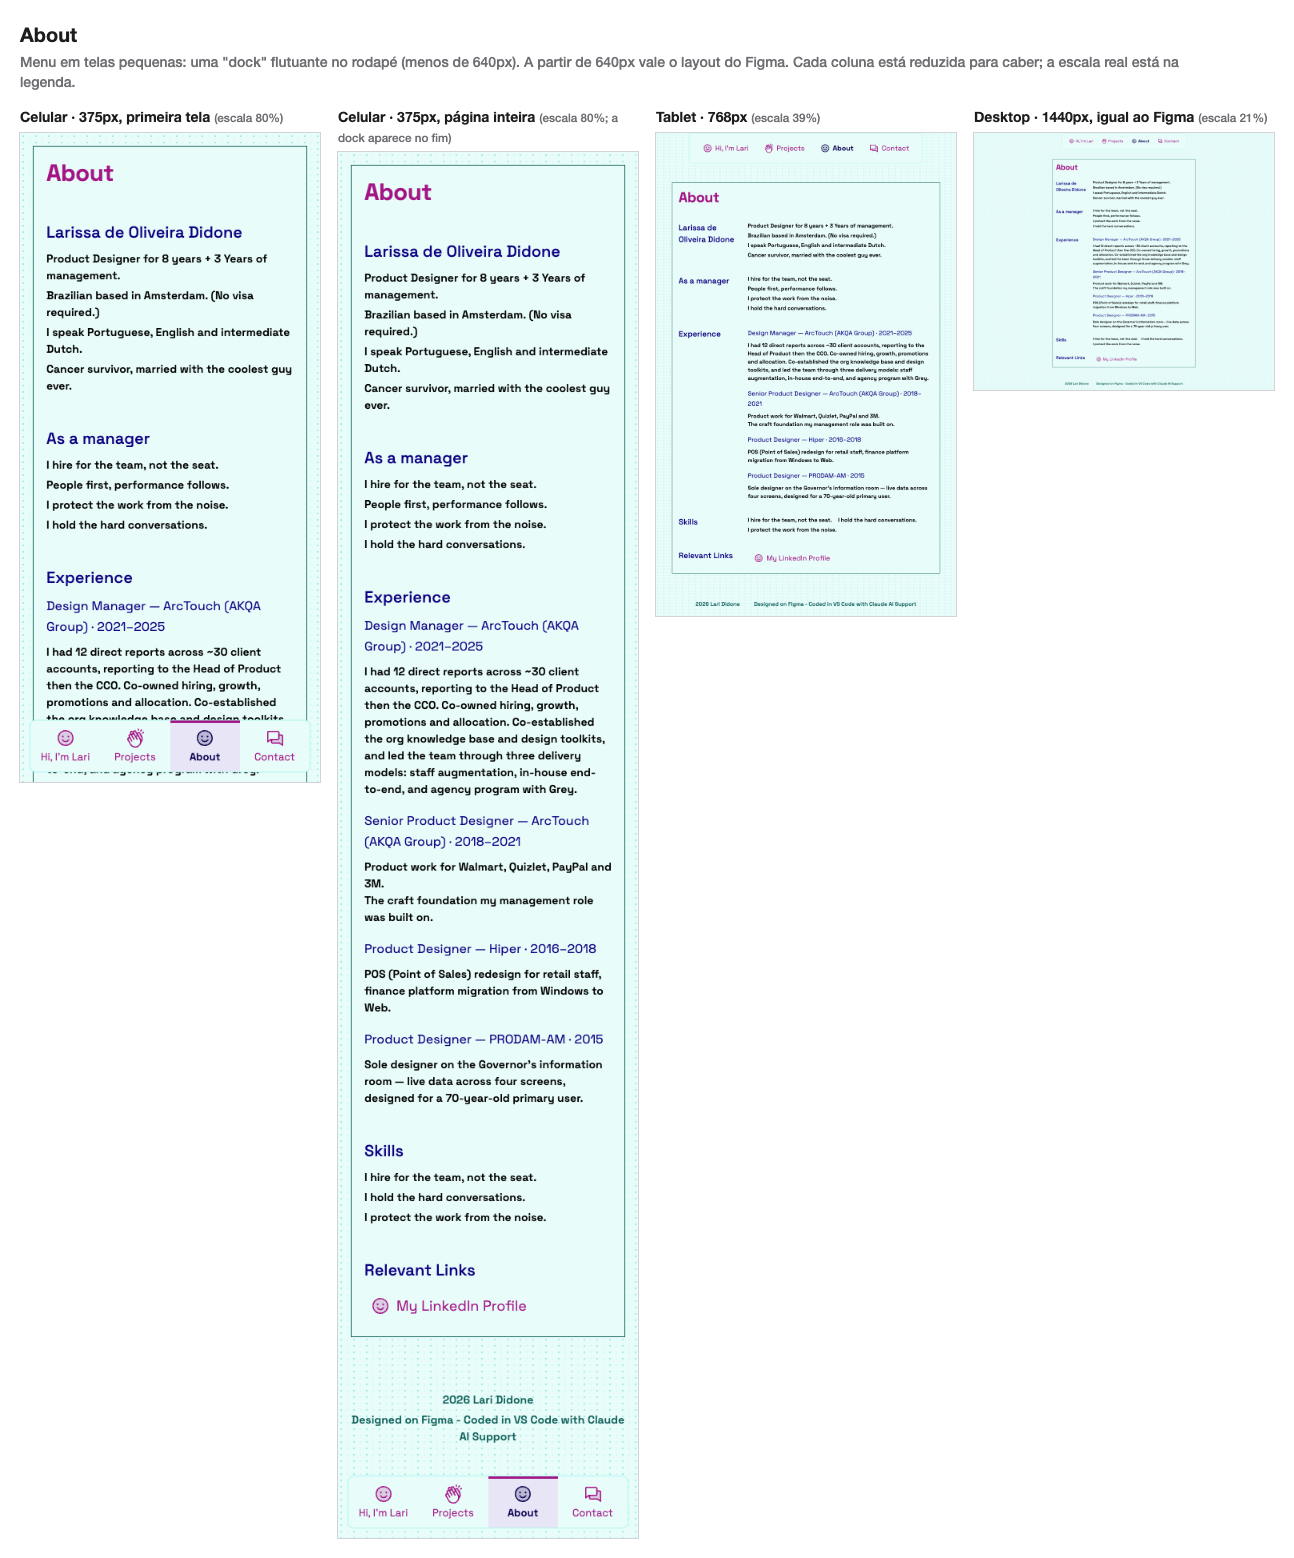
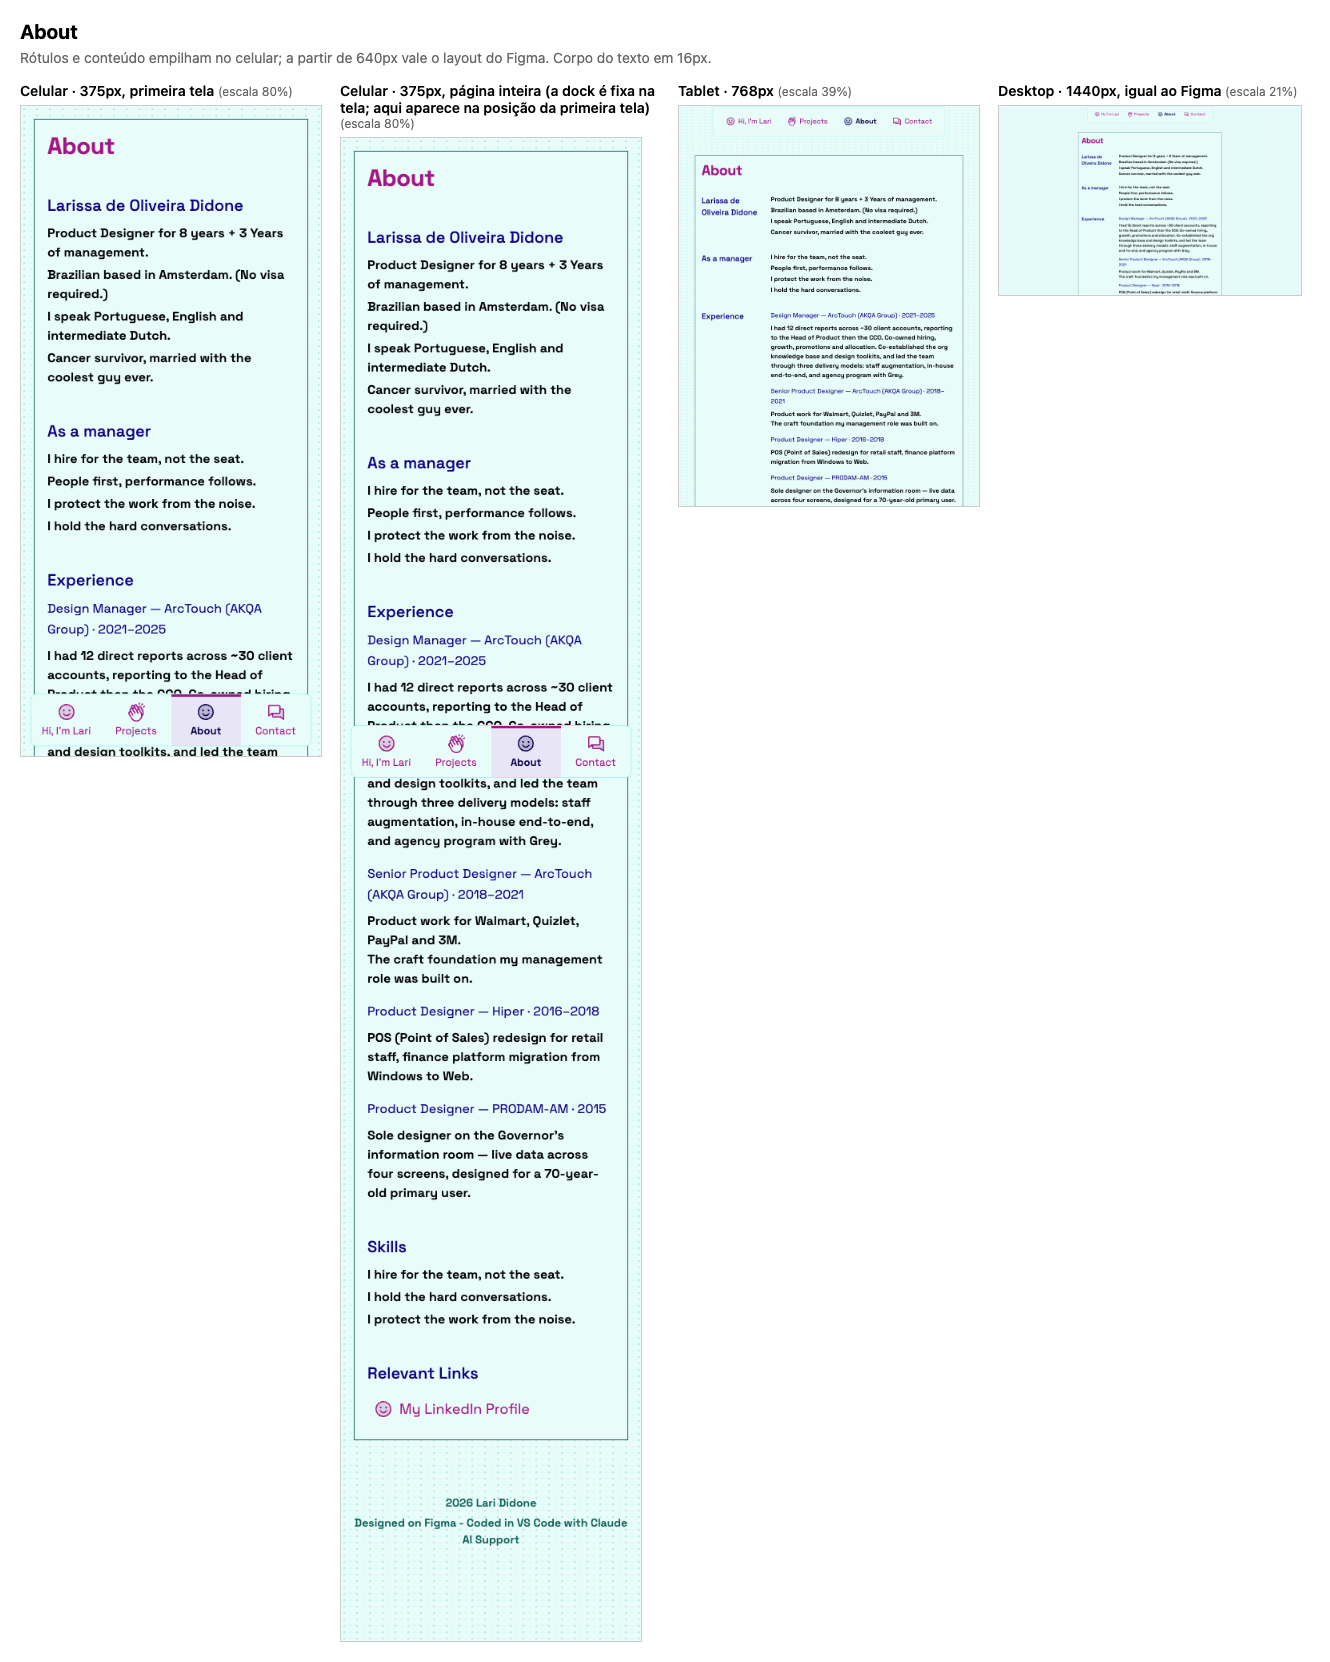
Set the public email, approve responsive layout (D12), refresh responsive captures

Changed region(s): [[0.0, 0.0, 0.9892, 0.9859]]

diff --git a/projects.html b/projects.html
@@ -31,7 +31,7 @@
           </li>
           <li><a class="tab tab--smile" href="about.html">About</a></li>
           <li>
-            <a class="tab tab--chat" href="mailto:EMAIL@EXAMPLE.COM"
+            <a class="tab tab--chat" href="mailto:larissadidone@gmail.com"
               >Contact<span class="visually-hidden"> (opens your email app)</span></a
             >
           </li>
@@ -136,7 +136,7 @@
           <div class="stack">
             <p class="text-large">Let’s talk about your next product challenge.</p>
             <p>
-              <a class="link-large" href="mailto:EMAIL@EXAMPLE.COM"
+              <a class="link-large" href="mailto:larissadidone@gmail.com"
                 >Get in touch <span aria-hidden="true">↗</span></a
               >
             </p>

diff --git a/index.html b/index.html
@@ -31,7 +31,7 @@
           <li><a class="tab tab--clap" href="projects.html">Projects</a></li>
           <li><a class="tab tab--smile" href="about.html">About</a></li>
           <li>
-            <a class="tab tab--chat" href="mailto:EMAIL@EXAMPLE.COM"
+            <a class="tab tab--chat" href="mailto:larissadidone@gmail.com"
               >Contact<span class="visually-hidden"> (opens your email app)</span></a
             >
           </li>

diff --git a/about.html b/about.html
@@ -31,7 +31,7 @@
             <a class="tab tab--smile" href="about.html" aria-current="page">About</a>
           </li>
           <li>
-            <a class="tab tab--chat" href="mailto:EMAIL@EXAMPLE.COM"
+            <a class="tab tab--chat" href="mailto:larissadidone@gmail.com"
               >Contact<span class="visually-hidden"> (opens your email app)</span></a
             >
           </li>

diff --git a/modelos/estudo-de-caso.html b/modelos/estudo-de-caso.html
@@ -29,7 +29,7 @@
           </li>
           <li><a class="tab tab--smile" href="../about.html">About</a></li>
           <li>
-            <a class="tab tab--chat" href="mailto:EMAIL@EXAMPLE.COM"
+            <a class="tab tab--chat" href="mailto:larissadidone@gmail.com"
               >Contact<span class="visually-hidden"> (opens your email app)</span></a
             >
           </li>

diff --git a/docs/decisoes.md b/docs/decisoes.md
@@ -79,9 +79,16 @@ Datas no formato dia/mês/ano. ✅ = decisão sua · 🔧 = padrão que adotei (
 
 - **Decisão:** a aba **Contact** do menu é um link `mailto:` que abre direto o programa de e-mail, **sem abrir uma tela nova**. O botão "Get in touch" em Projects usa o mesmo link. A página `contact.html`, o formulário e `js/contact-form.js` foram removidos (continuam no histórico do Git). Isto **substitui a D6**.
 - **Acessibilidade:** a aba leva um texto só para leitor de tela, "(opens your email app)", para ninguém se surpreender com a troca de programa. A aba não tem estado de "página atual".
-- **Em aberto:** o e-mail real. Hoje os links usam `EMAIL@EXAMPLE.COM` (é preciso trocar antes de publicar; a pessoa que visita vê o endereço, e ele pode receber spam).
+- **E-mail:** `larissadidone@gmail.com`, definido por você em 13/10/2026. Ele fica visível no código e para quem visita o site (pode receber spam). Para trocar, procure `mailto:` em `index.html`, `about.html`, `projects.html` e `modelos/estudo-de-caso.html`.
 - **Figma:** o frame desktop "Contact" continua no arquivo, mas **está obsoleto**. A aba Contact segue no desenho, agora como link de e-mail.
 - **Se voltar atrás:** `git log` mostra a página; um serviço de formulário seria a alternativa 2 da seção 5.
+
+### D12. Redimensionamento aprovado — 13/10/2026
+
+- **Decisão:** você aprovou tudo o que faltava de [responsivo.md](responsivo.md): título e subtítulo fluidos, cartões em 1 coluna (2 a partir de ~620px), rótulos e rodapé empilhados e margens de 16px. O menu (dock) já era a D7.
+- **Onde:** o bloco `width < 40em` e o `min-width: 40em` em [`css/styles.css`](../css/styles.css) e os `clamp()` de [`css/tokens.css`](../css/tokens.css).
+- **Capturas:** refeitas em 13/10/2026 (corpo em 16px, sem a página Contact): [Home](imagens/responsivo-home.png) · [About](imagens/responsivo-about.png) · [Projects](imagens/responsivo-projects.png).
+- **Continua em aberto:** o teste em celular de verdade e com o VoiceOver (final do projeto).
 
 ## 2. Padrões que adotei (você pode mudar) 🔧
 
@@ -93,7 +100,7 @@ Datas no formato dia/mês/ano. ✅ = decisão sua · 🔧 = padrão que adotei (
 | **Tokens com os nomes do Figma**                    | Cores, tamanhos e espaços mudam num lugar só                                                                                                                    | [`css/tokens.css`](../css/tokens.css)                        |
 | **Correções de acessibilidade além do Figma**       | Borda dos campos `#17847a`, anel de foco de 2px em `#0d0081`, texto dos campos em 16px, hover do botão, link "Pular para o conteúdo"                            | [design-vs-codigo.md](design-vs-codigo.md), seção 2          |
 | **Onde o Figma era inconsistente, escolhi um lado** | Altura da navegação, ícones das abas, versão do rodapé, tamanho dos rótulos e outros                                                                            | [design-vs-codigo.md](design-vs-codigo.md), seção 3          |
-| **Redimensionamento: um ponto de quebra (640px)**   | Título fluido, cartões em 1 coluna, rótulos e rodapé empilhados, margens de 16px. **Implementado como proposta; aguarda sua aprovação explícita**               | [responsivo.md](responsivo.md)                               |
+| **Redimensionamento: um ponto de quebra (640px)**   | Título fluido, cartões em 1 coluna, rótulos e rodapé empilhados, margens de 16px. **Aprovado em 13/10/2026 (D12)**                                              | [responsivo.md](responsivo.md)                               |
 | ~~Texto do corpo em 14px~~ (substituído pela D10)   | É o que está no Figma (em `rem`). 16px é recomendação, não exigência da WCAG                                                                                    | `--fs-body` em `css/tokens.css`                              |
 | **Texto da Home: a versão da página**               | "Hello, I’m Lari. I lead designers through change…", e não a variante "Welcome, I’m Lari…"                                                                      | `index.html`                                                 |
 | **Sem Stylelint**                                   | A dependência dele gerava 6 avisos de segurança no `npm audit`, sem correção disponível; o VS Code já valida o CSS                                              | Configuração do projeto                                      |
@@ -106,24 +113,24 @@ Atualizado em 13/10/2026, depois da sua revisão da lista.
 
 ### Adiadas de propósito (você decidiu esperar)
 
-| Pendência                                                                               | Quando                      | Observação                                                               |
-| --------------------------------------------------------------------------------------- | --------------------------- | ------------------------------------------------------------------------ |
-| Conteúdo real: endereço do LinkedIn, projetos e páginas dos estudos de caso             | Daqui a um tempo            | Os links dos cartões são `#`. Os modelos já estão prontos (D9)           |
-| Teste em celular de verdade e com o VoiceOver                                           | Final do projeto            | Principalmente a dock com a barra do Safari embaixo                      |
-| Aprovar o resto do redimensionamento (título fluido, cartões, rótulos, rodapé, margens) | Por enquanto fica como está | Segue valendo como proposta; checklist em [responsivo.md](responsivo.md) |
-| Separar o repositório                                                                   | Antes de publicar (D8)      |                                                                          |
-| Favicon, imagem de compartilhamento e página 404                                        | Antes de publicar           | Checklist no [README](../README.md), seção 7                             |
+| Pendência                                                                                   | Quando                 | Observação                                                     |
+| ------------------------------------------------------------------------------------------- | ---------------------- | -------------------------------------------------------------- |
+| Conteúdo real: endereço do LinkedIn, projetos e páginas dos estudos de caso                 | Daqui a um tempo       | Os links dos cartões são `#`. Os modelos já estão prontos (D9) |
+| Teste em celular de verdade e com o VoiceOver                                               | Final do projeto       | Principalmente a dock com a barra do Safari embaixo            |
+| ~~Aprovar o resto do redimensionamento (título fluido, cartões, rótulos, rodapé, margens)~~ | ✅ Aprovado (D12)      | Checklist em [responsivo.md](responsivo.md)                    |
+| Separar o repositório                                                                       | Antes de publicar (D8) |                                                                |
+| Favicon, imagem de compartilhamento e página 404                                            | Antes de publicar      | Checklist no [README](../README.md), seção 7                   |
 
 ### Em andamento ou esperando uma escolha sua
 
-| Pendência                                                                 | Situação                                                                                               |
-| ------------------------------------------------------------------------- | ------------------------------------------------------------------------------------------------------ |
-| ~~Escolher um modelo de estudo de caso~~                                  | ✅ Modelo A (D9)                                                                                       |
-| ~~Como o formulário envia mensagens~~                                     | ✅ `mailto:` na aba Contact (D11). Falta o e-mail real                                                 |
-| ~~Corpo do texto: 14px ou 16px~~                                          | ✅ 16px (D10)                                                                                          |
-| Texto final da Home e projetos reais                                      | Você escreve; os modelos servem de roteiro                                                             |
-| ~~Atualizar o Figma (cor do link, borda dos campos, foco, hovers, dock)~~ | ✅ Feito em 13/10/2026: [figma-atualizacoes.md](figma-atualizacoes.md). Falta você conferir            |
-| ~~Desenhar as telas de celular no Figma~~                                 | ✅ Feito em 13/10/2026 (página Mobile (375)), como camadas e não como componentes. Falta você conferir |
+| Pendência                                                                 | Situação                                                                                                                               |
+| ------------------------------------------------------------------------- | -------------------------------------------------------------------------------------------------------------------------------------- |
+| ~~Escolher um modelo de estudo de caso~~                                  | ✅ Modelo A (D9)                                                                                                                       |
+| ~~Como o formulário envia mensagens~~                                     | ✅ `mailto:` na aba Contact (D11). Falta o e-mail real                                                                                 |
+| ~~Corpo do texto: 14px ou 16px~~                                          | ✅ 16px (D10)                                                                                                                          |
+| Texto final da Home e projetos reais                                      | Você escreve; os modelos servem de roteiro                                                                                             |
+| ~~Atualizar o Figma (cor do link, borda dos campos, foco, hovers, dock)~~ | ✅ Feito em 13/10/2026: [figma-atualizacoes.md](figma-atualizacoes.md). Falta você conferir                                            |
+| ~~Desenhar as telas de celular no Figma~~                                 | ✅ Feito em 13/10/2026 (página Mobile (375)), com `Mobile/Dock`, `Mobile/Footer` e `Mobile/Card` como componentes. Falta você conferir |
 
 ## 4. Como mudar uma decisão
 

diff --git a/README.md b/README.md
@@ -40,7 +40,7 @@ Marque aqui conforme avançar.
 - [x] **0. Preparar o computador** — feito.
 - [ ] **1. Fechar o design no Figma** — **em andamento.** ([arquivo UI-Design](https://www.figma.com/design/kTQyYilEA2rApHxS9cB0Da/UI-Design); [revisão de acessibilidade do design](docs/revisao-do-design.md).) Em 13/10/2026 o Figma ganhou as telas de celular, os estados de foco e hover e os ajustes de cor ([docs/figma-atualizacoes.md](docs/figma-atualizacoes.md)); falta você conferir. Corrigir contraste no Figma custa minutos; corrigir depois de programado custa horas.
 - [x] **2. Escrever o HTML** — feito: as 3 páginas (Home, About, Projects) e o modelo de estudo de caso em `modelos/`. A aba Contact é um link `mailto:` (D11 em docs/decisoes.md), com títulos, listas e landmarks.
-- [x] **3. Estilizar com CSS** — feito: tokens em `css/tokens.css` e layout em `css/styles.css`. O menu do celular é uma dock flutuante no rodapé (escolha sua); falta aprovar o resto do comportamento em telas pequenas ([docs/responsivo.md](docs/responsivo.md)).
+- [x] **3. Estilizar com CSS** — feito: tokens em `css/tokens.css` e layout em `css/styles.css`. O menu do celular é uma dock flutuante no rodapé (escolha sua); o comportamento em telas pequenas foi aprovado em 13/10/2026 ([docs/responsivo.md](docs/responsivo.md)).
 - [x] **4. JavaScript só se for preciso** — feito, com um script pequeno (a detecção de texto muito grande, que devolve o menu do celular para o topo (`js/text-size.js`). O site funciona sem eles.
 - [ ] **5. Testar** — os testes automáticos passam (HTML, acessibilidade, teclado, larguras de 320 a 1440px, texto a 200%). **Falta** o teste manual em um celular de verdade e com o VoiceOver (seção 4).
 - [x] **6. Salvar versões** — em dia: tudo está commitado na `main`.
@@ -69,7 +69,7 @@ Marque aqui conforme avançar.
 - [docs/revisao-do-design.md](docs/revisao-do-design.md): o que o design tem, tokens, contraste medido e o que ajustar no Figma.
 - [docs/figma-atualizacoes.md](docs/figma-atualizacoes.md): o que mudou no Figma em 13/10/2026 e os limites do que foi feito.
 - [docs/design-vs-codigo.md](docs/design-vs-codigo.md): cada diferença entre o Figma e o código, com o motivo, e como mantê-los alinhados.
-- [docs/responsivo.md](docs/responsivo.md): como o site se adapta a telas pequenas (proposta aguardando aprovação).
+- [docs/responsivo.md](docs/responsivo.md): como o site se adapta a telas pequenas (aprovado em 13/10/2026).
 
 ## 4. Acessibilidade
 
@@ -172,7 +172,7 @@ Checklist antes de publicar:
 - [x] `npm run check` sem problemas
 - [ ] Teste manual feito, em um celular de verdade e com o VoiceOver
 - [ ] Trocar o que é provisório (lista completa em [docs/design-vs-codigo.md](docs/design-vs-codigo.md), seção 6): endereço real do LinkedIn, links `#` dos cartões, textos "Sample project cards…" e "Illustrative concept", seção "Skills"
-- [ ] Trocar `EMAIL@EXAMPLE.COM` pelo e-mail real nos links `mailto:` (aba Contact em todas as páginas e "Get in touch" em projects.html)
+- [ ] Conferir se `larissadidone@gmail.com` é o e-mail que você quer deixar público nos links `mailto:` (aba Contact e "Get in touch")
 - [x] `<title>` e `<meta name="description">` em cada página (conferir o texto final)
 - [ ] Favicon e imagem de compartilhamento (Open Graph)
 - [ ] Página 404
@@ -197,7 +197,7 @@ larididone/
 │   ├── decisoes.md          ← registro das decisões do projeto e das pendências
 │   ├── revisao-do-design.md ← revisão do Figma: tokens, contraste, ajustes
 │   ├── design-vs-codigo.md  ← onde e por que o código difere do Figma
-│   ├── responsivo.md        ← proposta para telas pequenas
+│   ├── responsivo.md        ← como o site se adapta a telas pequenas
 │   └── imagens/             ← comparações Figma × código e folhas de redimensionamento
 ├── scripts/a11y.mjs         ← o verificador de acessibilidade
 ├── package.json             ← lista de ferramentas e comandos (npm)

diff --git a/docs/responsivo.md b/docs/responsivo.md
@@ -1,6 +1,6 @@
 # Redimensionamento: como o site se adapta a telas menores
 
-O Figma só tem frames de desktop (1440px). Este documento descreve como o site se adapta a telas menores. **Já está implementado no código** para você poder ver e testar, mas nada disso existe no Figma até você aprovar (ou ajustar). O menu do celular já foi decidido por você; o resto aguarda sua aprovação.
+O Figma só tem frames de desktop (1440px). Este documento descreve como o site se adapta a telas menores. **Já está implementado no código** para você poder ver e testar, mas **Aprovado por você em 13/10/2026 (D12)**, e as telas de celular já estão no Figma (página Mobile (375), veja [figma-atualizacoes.md](figma-atualizacoes.md)).
 
 ## Decisão: o menu do celular é uma "dock" flutuante
 
@@ -50,7 +50,7 @@ A primeira proposta era uma grade 2×2 no topo. Você não gostou (ocupava 112px
 
 ## Veja como ficou (celular · tablet · desktop)
 
-> Capturas feitas **antes** de 13/10/2026: o corpo ainda era 14px e a página Contact existia. As telas de celular atuais estão no Figma (página Mobile (375)).
+> Capturas refeitas em 13/10/2026 (corpo em 16px).
 
 Cada folha mostra a primeira tela do celular, a página inteira (com a dock no fim), o tablet e o desktop.
 
@@ -89,13 +89,13 @@ Ainda falta, e só você ou um aparelho real faz: **testar num celular de verdad
 ## Para você decidir
 
 - [x] Menu do celular: **dock flutuante** (decidido em 08/10)
-- [ ] Título e subtítulo da Home **fluidos** (32 → 48px)
-- [ ] Cartões em **1 coluna** no celular (2 a partir de ~620px)
-- [ ] Rótulos **empilhados** acima do conteúdo no celular
-- [ ] Rodapé **empilhado** e centralizado
-- [ ] Margens laterais de **16px**
+- [x] Título e subtítulo da Home **fluidos** (32 → 48px)
+- [x] Cartões em **1 coluna** no celular (2 a partir de ~620px)
+- [x] Rótulos **empilhados** acima do conteúdo no celular
+- [x] Rodapé **empilhado** e centralizado
+- [x] Margens laterais de **16px**
 
-**Depois de aprovar, como levar isso para o Figma:**
+**Como foi levado para o Figma (feito em 13/10/2026):**
 
 1. Você desenha os frames de 375px (e 768px, se quiser) usando esta proposta como referência; ou
 2. eu desenho esses frames no seu arquivo do Figma a partir desta proposta (isso escreve no seu arquivo, então só faço com o seu "pode fazer"); ou

diff --git a/docs/figma-atualizacoes.md b/docs/figma-atualizacoes.md
@@ -30,7 +30,7 @@ Três telas de 375px (Home, Projects, About) desenhadas **a partir do site já c
 | `Mobile/Footer` | n/a                                 | uma instância em cada tela                                                                 |
 | `Mobile/Card`   | `Art` = Cards · Rows                | 4 instâncias em Projects; o texto e a cor da ilustração são sobrescritos em cada instância |
 
-O que mostram: título fluido, cartões em 1 coluna, rótulos e rodapé empilhados e margens de 16px (a proposta de [responsivo.md](responsivo.md), ainda não aprovada por você: se mudar, as telas mudam).
+O que mostram: título fluido, cartões em 1 coluna, rótulos e rodapé empilhados e margens de 16px (aprovados em 13/10/2026, D12: se mudar, as telas mudam).
 
 ## 4. Limites, para você não se surpreender
 

diff --git a/docs/design-vs-codigo.md b/docs/design-vs-codigo.md
@@ -85,7 +85,6 @@ Em todos estes casos o Figma tinha duas versões ou um detalhe que parece aciden
 - LinkedIn: o endereço é genérico (`linkedin.com`) em About.
 - Textos do Figma que parecem notas: "Sample project cards — replace these concepts…" e "Illustrative concept".
 - "Skills" repete três linhas de "As a manager".
-- `EMAIL@EXAMPLE.COM`: o e-mail real dos links `mailto:` (D11).
 - Texto da Home: usei o da página ("Hello, I’m Lari. I lead designers through change…"), não o da variante "Welcome, I’m Lari…". Me avise se o texto final for o outro.
 - Rodapé: "2026 Lari Didone" está sem o símbolo ©, como no Figma.
 
